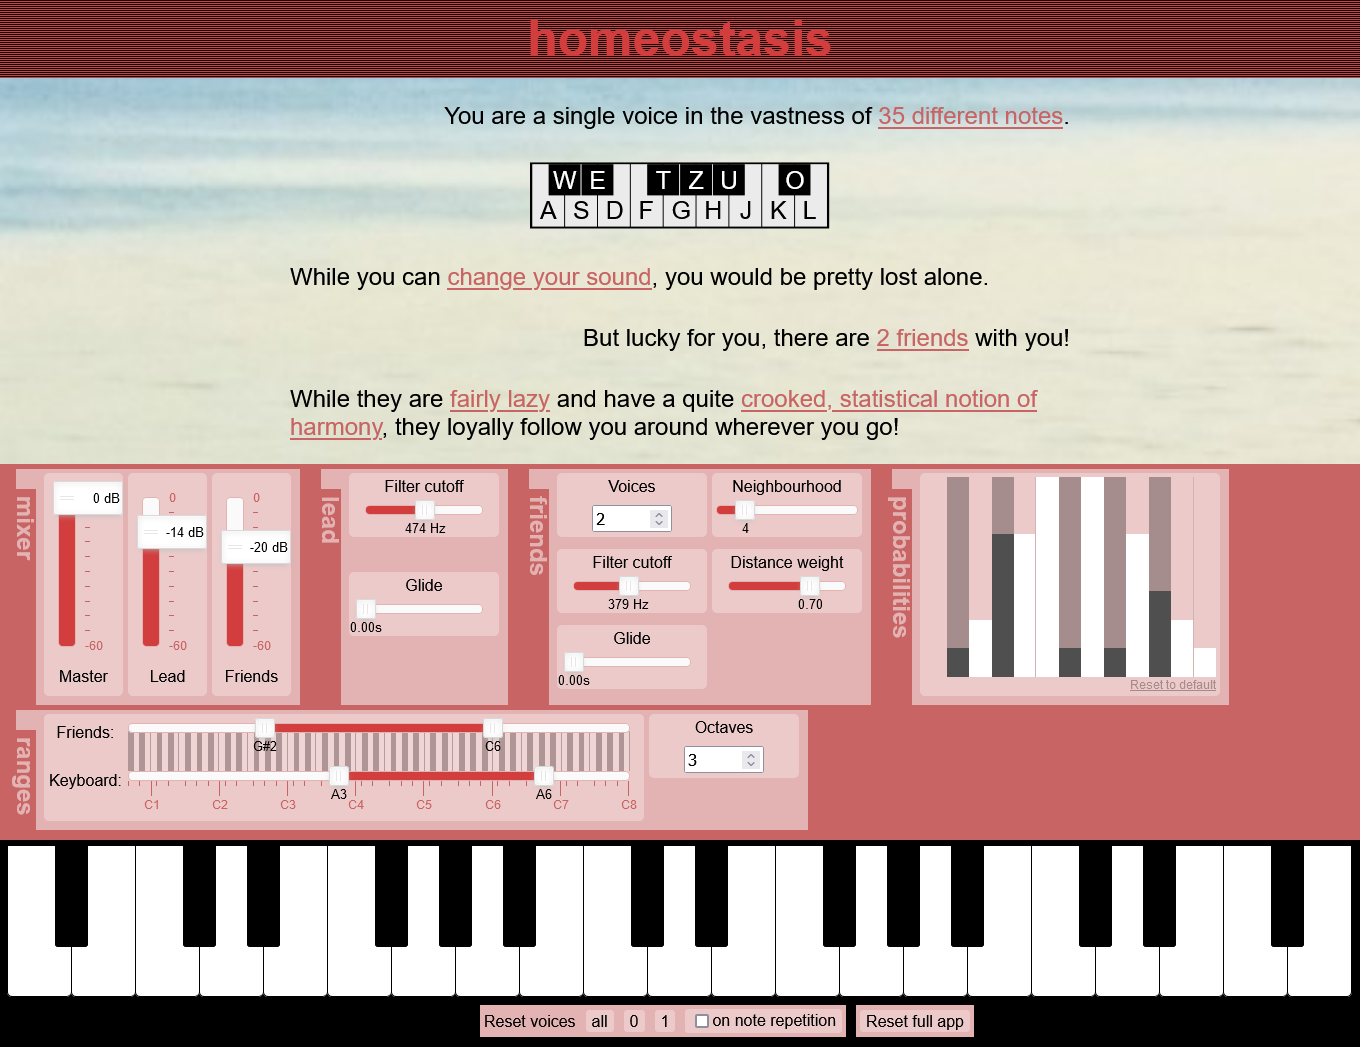
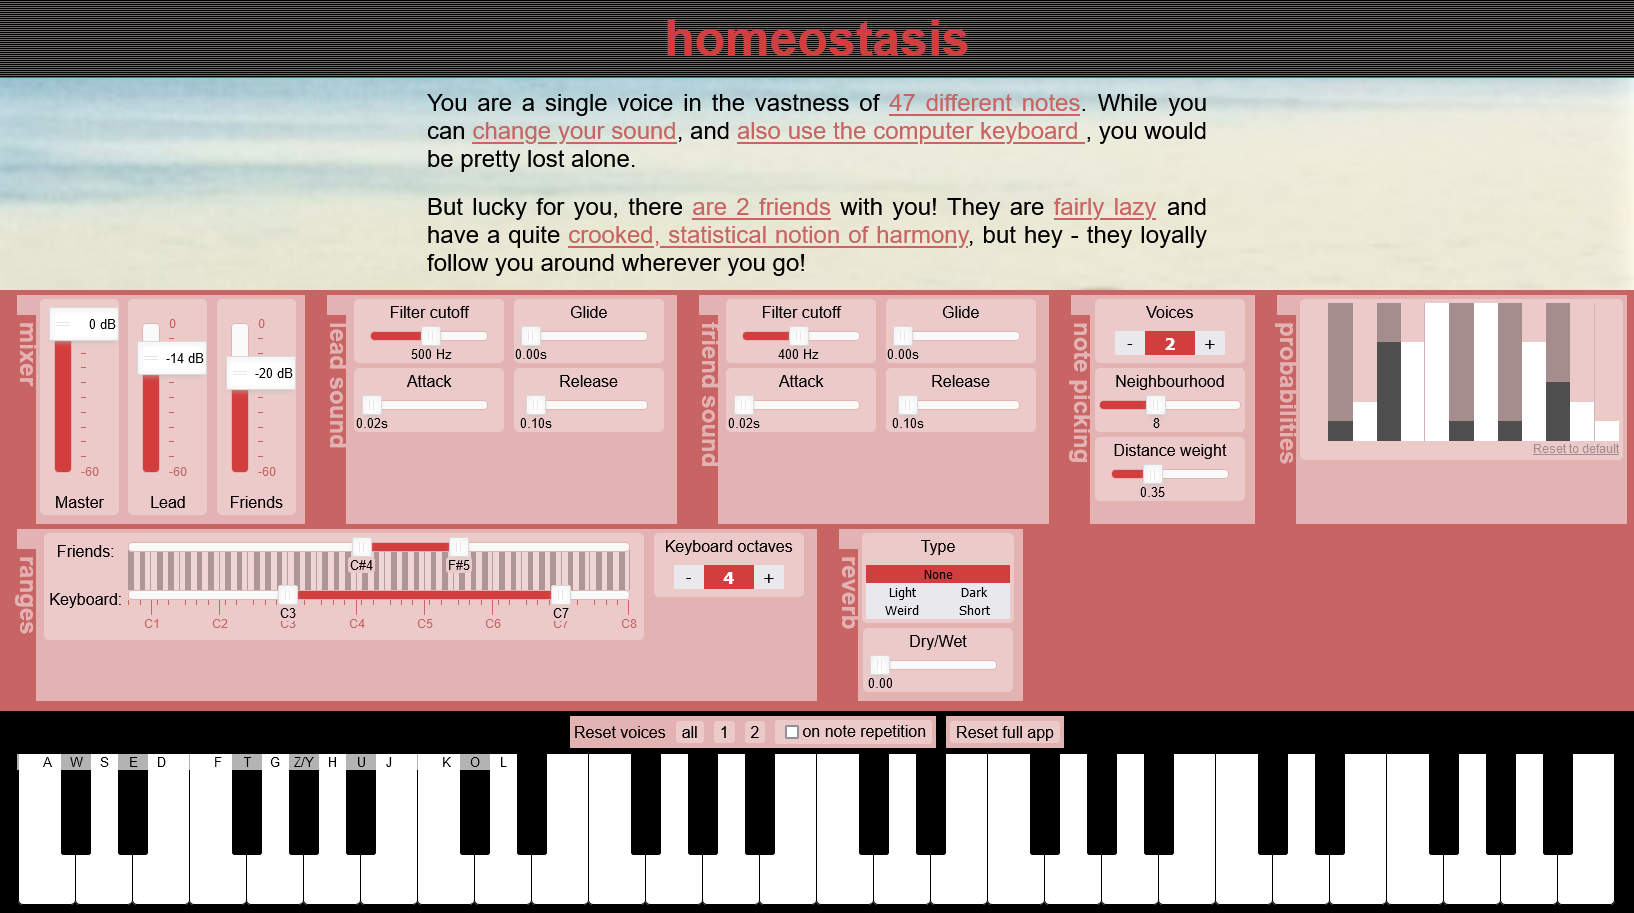
README update

diff --git a/README.md b/README.md
@@ -2,3 +2,22 @@
 Web Audio application creating harmonies to a playable lead synth. Still experimental, can be tried out live [here](https://michaelhochmuth.de/homeostasis/).
 
 ![Screenshot of the application showing several controls and a piano keyboard](screenshot.png)
+
+Current features:
+
+-	Change up to 10 voices (friends) in reaction to a user-played lead voice, picking one of the most probable notes based on different factors:
+	-	Joint probability of the intervals to all other notes (octaves subtracted)
+	-	Distance from past note
+-	Sound controls for lead and each friend voice: Lowpass filter, Attack and Release, Glide (for each voice individually)
+-	Reverb with different impulse responses
+-	Keyboard-controllable option to reset individual, or all voices.
+-	Reaction to different screen sizes w.r.t. keyboard octaves and initial UI layout
+-	UI with included explanations for each element
+-	Configuration is stored and loaded in a cookie on the browser
+
+ToDo:
+
+-	Preset System
+-	Re-think interval probabilities
+-	Better selection of impulse responses for reverb
+-	Option to disable explanations
